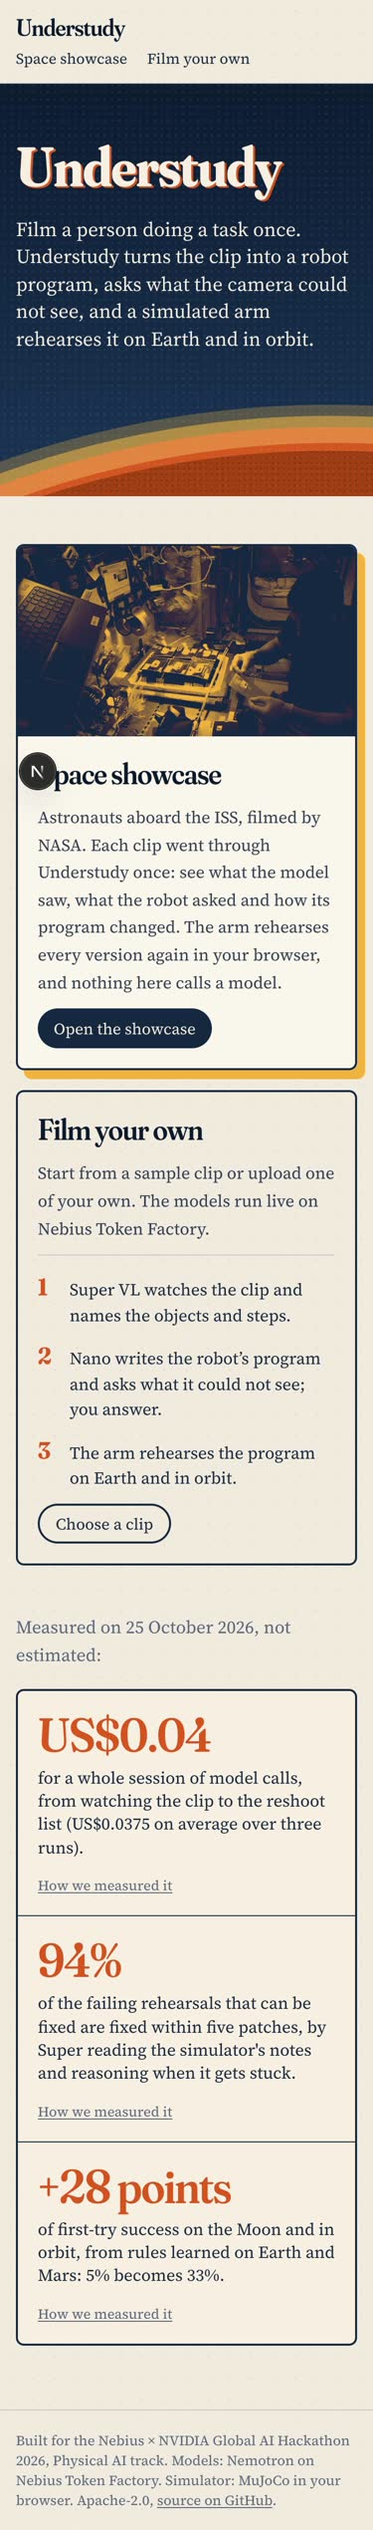
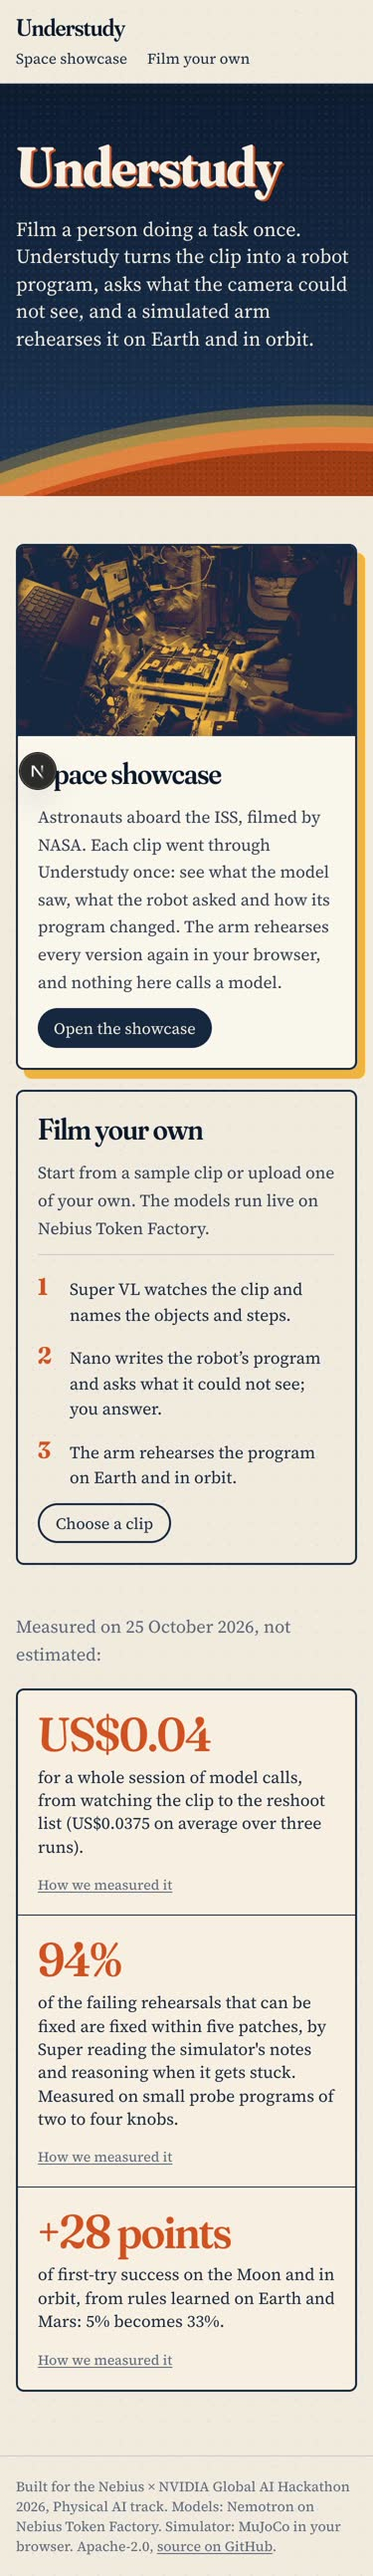
Showcase: fixes from the Codex review
- Recorder: refuses to run without NEBIUS_API_KEY (the routes would replay their fixtures, some with no replay warning); reserves each call's worst-case cost against the cap before making it, and rejects a cap that is not a positive number; Notes hook calls now join the ledger and the cap; answers for MAX_ROUNDS rounds, as the flow does. Two tests for the guards, no network.
- Story: the recording date is formatted in UTC, so server and browser agree in every time zone.
- The 94% figure says it was measured on small probe programs of two to four knobs.
- Theme keeps --color-foreground / --color-background: /watch still uses bg-foreground.
- Hover colours on paper-on-accent buttons and links keep AA contrast.
- Screenshots retaken.

Refs #90

— gib

diff --git a/lib/showcase/record.ts b/lib/showcase/record.ts
@@ -34,8 +34,25 @@ export const MAX_ROUNDS = 6;
 export const MAX_PATCHES = 5;
 
 /**
+ * The most one route call can cost, reserved before it is made: every attempt
+ * callModel can make (an unparsable answer is asked again, a check asks for a
+ * fix) at its max_tokens, with a generous prompt. List prices from
+ * tests/fixtures/models.json: Super VL US$0.30 / 0.90 per million tokens in /
+ * out, Nano 0.06 / 0.24, Super 0.30 / 0.90.
+ */
+export const WORST_USD = {
+  /** 2 attempts x (12k prompt tokens, 3,000 out) on Super VL */
+  label: 2 * (12_000 * 0.3e-6 + 3_000 * 0.9e-6),
+  /** 3 attempts x (8k prompt tokens, 3,000 out) on Nano */
+  compile: 3 * (8_000 * 0.06e-6 + 3_000 * 0.24e-6),
+  /** 2 attempts x (8k prompt tokens, 4,096 out) on Super */
+  notes: 2 * (8_000 * 0.3e-6 + 4_096 * 0.9e-6),
+} as const;
+
+/**
  * The Notes stage's hook (#28). Called while the last iteration fails in a
- * world and not on a spec gap; returns the next iteration, or null to stop.
+ * world and not on a spec gap; returns the next iteration with the model
+ * calls it made (they join the ledger and the cap), or null to stop.
  * Once /api/notes is on main, wire it here: post { spec, program, runs,
  * first, history } to app/api/notes/route.ts as app/patch-loop.tsx does,
  * rehearse the patched program with rehearseAll, and return
@@ -43,7 +60,7 @@ export const MAX_PATCHES = 5;
  * patch's why, cost_usd: its cost }. Until then recordings stop after the
  * interview and say so in `pending`.
  */
-export type NotesHook = (last: Iteration, iterations: Iteration[], engine: Engine) => Promise<Iteration | null>;
+export type NotesHook = (last: Iteration, iterations: Iteration[], engine: Engine) => Promise<{ iteration: Iteration; calls: Call[] } | null>;
 
 export type RecordOptions = { root: string; sample: Sample; engine: Engine; capUsd: number; notes?: NotesHook; log?: (line: string) => void };
 
@@ -107,18 +124,22 @@ export function poster(root: string, sample: Sample, session: Session, out: stri
 export async function recordClip({ root, sample, engine, capUsd, notes, log = () => {} }: RecordOptions): Promise<Session> {
   const { POST: labelRoute } = await import("@/app/api/label/route");
   const { POST: compileRoute } = await import("@/app/api/compile/route");
+  // with no key every route answers from its fixtures, some with no replay warning: never record those
+  if (!process.env.NEBIUS_API_KEY) throw new Error("NEBIUS_API_KEY is not set: the routes would answer from their replay fixtures");
+  if (!(capUsd > 0)) throw new Error(`the cap must be a positive number of US dollars, not ${capUsd}`);
   const ledger: Call[] = [];
-  const guard = (next: string) => {
+  /** stop before a call whose worst case would take the clip over its cap */
+  const guard = (next: string, worst: number) => {
     const spent = sum(ledger.map((c) => c.usd));
-    if (spent >= capUsd) throw new Error(`spent US$${spent.toFixed(4)} of the US$${capUsd} cap before ${next}`);
+    if (spent + worst > capUsd) throw new Error(`US$${spent.toFixed(4)} spent; ${next} could cost up to US$${worst.toFixed(4)}, over the US$${capUsd} cap`);
   };
 
+  guard("label", WORST_USD.label);
   const file = path.join(root, "samples", `${sample.name}.mp4`);
   const sha256 = createHash("sha256").update(readFileSync(file)).digest("hex");
   const { video, duration_s } = proxy(file);
   log(`${sample.name}: proxy ${Math.round(video.length / 1024)} kB, ${duration_s.toFixed(1)} s`);
 
-  guard("label");
   const label = live(await post<TaskSpec>(labelRoute as Handler, "/api/label", { video, duration_s, hint: sample.hint, clip_sha256: sha256 }), "label");
   const labelCalls = calls("label", label.ledger);
   ledger.push(...labelCalls);
@@ -135,7 +156,7 @@ export async function recordClip({ root, sample, engine, capUsd, notes, log = ()
   let given: Answer[] = [];
   let asked: Ask[] = [];
   for (let turn = 0; ; turn++) {
-    guard(`compile ${turn}`);
+    guard(`compile ${turn}`, WORST_USD.compile);
     const r = live(await post<Program>(compileRoute as Handler, "/api/compile", { spec, previous }), `compile ${turn}`);
     const cost = calls("compile", r.ledger);
     ledger.push(...cost);
@@ -154,7 +175,8 @@ export async function recordClip({ root, sample, engine, capUsd, notes, log = ()
     });
     log(`compile ${turn}: ${asks.length} asks; earth ${results.earth.pass ? "pass" : "fail"}, orbit ${results.orbit.pass ? "pass" : "fail"}`);
 
-    const next = asks.length && turn + 1 < MAX_ROUNDS ? asks.flatMap((a) => answerFor(spec, a.slot, turn + 1, answers) ?? []) : [];
+    // the flow takes answers for MAX_ROUNDS rounds, then rehearses what it has
+    const next = asks.length && turn < MAX_ROUNDS ? asks.flatMap((a) => answerFor(spec, a.slot, turn + 1, answers) ?? []) : [];
     turns.push({ program, warnings: r.warnings, asks: asks.map(({ slot, question, why }) => ({ slot, question, why })), answers: next });
     if (next.length === 0) break;
     const applied = applyChanges(spec, next.map((a) => a.change));
@@ -167,10 +189,11 @@ export async function recordClip({ root, sample, engine, capUsd, notes, log = ()
 
   const fails = (it: Iteration) => [it.results.earth, it.results.orbit].some((x) => !x.pass) && [it.results.earth, it.results.orbit].every((x) => x.pass || x.failure_class !== "spec_gap");
   for (let n = 0; notes && n < MAX_PATCHES && fails(iterations.at(-1)!); n++) {
-    guard(`notes patch ${n + 1}`);
-    const it = await notes(iterations.at(-1)!, iterations, engine);
-    if (!it) break;
-    iterations.push(it);
+    guard(`notes patch ${n + 1}`, WORST_USD.notes);
+    const patched = await notes(iterations.at(-1)!, iterations, engine);
+    if (!patched) break;
+    ledger.push(...patched.calls);
+    iterations.push(patched.iteration);
   }
 
   return Session.parse({

diff --git a/app/space/[clip]/story.tsx b/app/space/[clip]/story.tsx
@@ -35,6 +35,7 @@ function version(it: Iteration, i: number, session: Session): string {
     const n = session.turns[i - 1]?.answers.length ?? 0;
     return `After ${n} answer${n === 1 ? "" : "s"}`;
   }
+  if (it.source === "notes") return `${SOURCE.notes} ${session.iterations.slice(0, i + 1).filter((x) => x.source === "notes").length}`;
   return SOURCE[it.source];
 }
 
@@ -129,7 +130,7 @@ export function Story({ sample, session }: { sample: Sample; session: Session })
         </Link>
         <h1 className="display text-4xl font-semibold text-ink-deep sm:text-5xl">{label.title}</h1>
         <p className="text-lg text-neutral-700">
-          {sample.label}. Recorded on {new Date(session.recorded_at).toLocaleDateString("en-GB", { day: "numeric", month: "long", year: "numeric" })} in one run through Understudy; its {session.ledger.length} model calls cost {usd(session.total_usd)} in all. The last version of its program {verdict(session)}.
+          {sample.label}. Recorded on {new Date(session.recorded_at).toLocaleDateString("en-GB", { day: "numeric", month: "long", year: "numeric", timeZone: "UTC" })} in one run through Understudy; its {session.ledger.length} model calls cost {usd(session.total_usd)} in all. The last version of its program {verdict(session)}.
         </p>
       </header>
 
@@ -263,7 +264,7 @@ export function Story({ sample, session }: { sample: Sample; session: Session })
                 <span className="display text-xl font-semibold">
                   {i}. {version(x, i, session)}
                 </span>
-                <button onClick={() => choose(i, true)} className="self-start text-sm text-accent-text underline underline-offset-2 hover:text-accent">
+                <button onClick={() => choose(i, true)} className="self-start text-sm text-accent-text underline underline-offset-2 hover:decoration-2">
                   Rehearse this version
                 </button>
               </div>
@@ -292,7 +293,7 @@ export function Story({ sample, session }: { sample: Sample; session: Session })
         </ol>
         {session.pending.length > 0 && finalFails && (
           <p className="max-w-3xl rounded-lg border-2 border-dashed border-accent p-4 text-[17px]">
-            This is where the Notes stage takes over: Super reads what the simulator measured in the failed rehearsal, patches the program’s numbers, and each patch is rehearsed again on Earth and in orbit. Its versions will join this story when that stage ships; in our measurements it fixes 94% of the failures it can fix.
+            This is where the Notes stage takes over: Super reads what the simulator measured in the failed rehearsal, patches the program’s numbers, and each patch is rehearsed again on Earth and in orbit. Its versions will join this story when that stage ships. On small probe programs of two to four knobs, the same loop fixed 94% of the failures that could be fixed.
           </p>
         )}
         <p className="text-sm text-muted">

diff --git a/app/page.tsx b/app/page.tsx
@@ -6,7 +6,7 @@ const MEASURED = "https://github.com/gibouu/understudy/blob/main/docs/MEASUREMEN
 /** Three numbers from docs/MEASUREMENTS.md, each linked to the section that measures it. */
 const NUMBERS = [
   { figure: "US$0.04", text: "for a whole session of model calls, from watching the clip to the reshoot list (US$0.0375 on average over three runs).", href: `${MEASURED}#1-what-a-session-costs` },
-  { figure: "94%", text: "of the failing rehearsals that can be fixed are fixed within five patches, by Super reading the simulator's notes and reasoning when it gets stuck.", href: `${MEASURED}#8-the-self-improvement-loop` },
+  { figure: "94%", text: "of the failing rehearsals that can be fixed are fixed within five patches, by Super reading the simulator's notes and reasoning when it gets stuck. Measured on small probe programs of two to four knobs.", href: `${MEASURED}#8-the-self-improvement-loop` },
   { figure: "+28 points", text: "of first-try success on the Moon and in orbit, from rules learned on Earth and Mars: 5% becomes 33%.", href: `${MEASURED}#8-the-self-improvement-loop` },
 ];
 
@@ -37,7 +37,7 @@ export default async function Home() {
             <p className="text-[17px] leading-relaxed text-neutral-700">
               Astronauts aboard the ISS, filmed by NASA. Each clip went through Understudy once: see what the model saw, what the robot asked and how its program changed. The arm rehearses every version again in your browser, and nothing here calls a model.
             </p>
-            <span className="mt-auto self-start rounded-full bg-ink px-4 py-2 text-paper group-hover:bg-accent">Open the showcase</span>
+            <span className="mt-auto self-start rounded-full bg-ink px-4 py-2 text-paper group-hover:bg-accent-text">Open the showcase</span>
           </div>
         </Link>
 
@@ -52,7 +52,7 @@ export default async function Home() {
               </li>
             ))}
           </ol>
-          <span className="mt-auto self-start rounded-full border-2 border-ink px-4 py-1.5 group-hover:border-accent group-hover:text-accent-text">Choose a clip</span>
+          <span className="mt-auto self-start rounded-full border-2 border-ink px-4 py-1.5 group-hover:border-accent-text group-hover:text-accent-text">Choose a clip</span>
         </Link>
       </section>
 

diff --git a/lib/showcase/record.test.ts b/lib/showcase/record.test.ts
@@ -67,6 +67,34 @@ describe("the showcase recordings", () => {
   }, 60_000);
 });
 
+describe("the recorder's guards (no network)", () => {
+  const sample = SAMPLES[0];
+  const withKey = async <T,>(key: string | undefined, fn: () => Promise<T>) => {
+    const saved = process.env.NEBIUS_API_KEY;
+    if (key === undefined) delete process.env.NEBIUS_API_KEY;
+    else process.env.NEBIUS_API_KEY = key;
+    try {
+      return await fn();
+    } finally {
+      if (saved === undefined) delete process.env.NEBIUS_API_KEY;
+      else process.env.NEBIUS_API_KEY = saved;
+    }
+  };
+
+  it("refuses to record without a key: the routes would replay their fixtures", async () => {
+    const { recordClip } = await import("./record");
+    await withKey(undefined, () => expect(recordClip({ root: ROOT, sample, engine, capUsd: 1 })).rejects.toThrow(/NEBIUS_API_KEY is not set/));
+  });
+
+  it("stops before a call whose worst case is over the cap", async () => {
+    const { recordClip, WORST_USD } = await import("./record");
+    await withKey("not-a-real-key", async () => {
+      await expect(recordClip({ root: ROOT, sample, engine, capUsd: WORST_USD.label / 2 })).rejects.toThrow(/over the US\$.* cap/);
+      await expect(recordClip({ root: ROOT, sample, engine, capUsd: 0 })).rejects.toThrow(/positive number/);
+    });
+  });
+});
+
 describe("the recorded answers", () => {
   const spec = TaskSpec.parse({
     version: 1,

diff --git a/app/space/page.tsx b/app/space/page.tsx
@@ -32,7 +32,7 @@ export default async function Space() {
                   <p className="text-sm text-muted">
                     {asks} question{asks === 1 ? "" : "s"} from the robot, {session.iterations.length} version{session.iterations.length === 1 ? "" : "s"} of its program; the last one {verdict(session)}. Model calls: {usd(session.total_usd)}.
                   </p>
-                  <span className="mt-auto self-start rounded-full bg-ink px-4 py-2 text-paper group-hover:bg-accent">Watch it</span>
+                  <span className="mt-auto self-start rounded-full bg-ink px-4 py-2 text-paper group-hover:bg-accent-text">Watch it</span>
                 </div>
               </Link>
             </li>

diff --git a/app/globals.css b/app/globals.css
@@ -25,6 +25,9 @@
 }
 
 @theme inline {
+  /* the scaffold's names, still used by /watch */
+  --color-background: var(--paper);
+  --color-foreground: var(--ink);
   --color-paper: var(--paper);
   --color-card: var(--paper-card);
   --color-paper-deep: var(--paper-deep);
